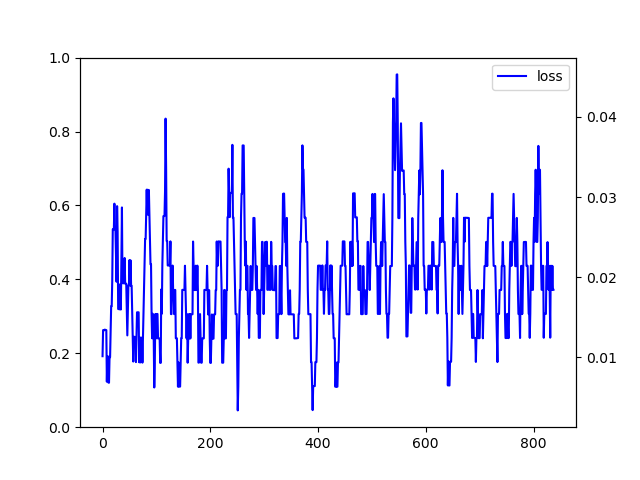
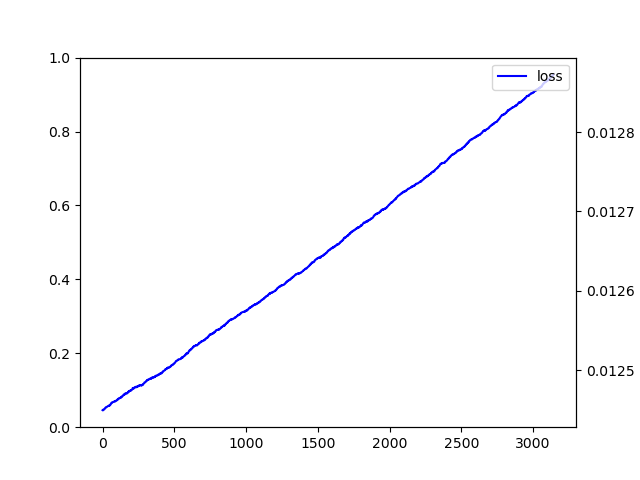
400+,

diff --git a/deeprl_hw2/dqn.py b/deeprl_hw2/dqn.py
@@ -120,11 +120,15 @@ class DQNAgent:
         terminal = torch.from_numpy(np.array([sample[4] for sample in train_samples]).astype(np.int64)).cuda()
         # terminal [batch_size,]
 
-        q_target = torch.where(terminal == 0,
-                               rt + self.gamma * torch.max(q2(s_prime), dim=-1)[0],
-                               rt)  # [batch_size]
-        q_value = torch.gather(input=q1(st), dim=-1, index=at.unsqueeze(-1))
-        loss = torch.mean((q_value - q_target.detach()) ** 2)
+        # q_target = torch.where(terminal == 0,
+        #                        rt + self.gamma * torch.max(q2(s_prime), dim=-1)[0],
+        #                        rt)  # [batch_size]
+
+        q_target = self.gamma * torch.max(q2(s_prime), dim=-1)[0] * (1. - terminal) + rt  # [batch_size]
+        q_value = torch.gather(input=q1(st), dim=-1, index=at.unsqueeze(-1))  # [batch_size, 1]
+        loss = torch.nn.SmoothL1Loss()(q_value.float(), q_target.detach().float().unsqueeze(1))
+
+        # torch.mean((q_value - q_target.detach()) ** 2)
 
         optimizer.zero_grad()
         loss.backward()
@@ -145,7 +149,7 @@ class DQNAgent:
     def evaluate(self, env, q1, num_episodes):
         """Test your agent with a provided environment.
         """
-        env = wrap_deepmind(env, frame_stack=True, episode_life=True, clip_rewards=False, scale=False)
+        env = wrap_deepmind(env, frame_stack=True, episode_life=False, clip_rewards=False, scale=False)
         state = env.reset()
 
         rewards = np.zeros((num_episodes,))
@@ -156,6 +160,7 @@ class DQNAgent:
             new_state, reward, done, info = env.step(action)
             state = new_state
             rewards[n_episode] += reward
+            # env.render()
 
             if done:
                 state = env.reset()

diff --git a/deeprl_hw2/memory.py b/deeprl_hw2/memory.py
@@ -99,7 +99,7 @@ class ReplayMemory:
         samples = []
         while len(samples) < batch_size:
             index = random.randint(0, max_index)
-            if len(self.memory[index]) == 3:
+            if (len(self.memory[index]) == 3) and ((index + 1) % self.max_size != self.next_index):
                 terminal = len(self.memory[(index + 1) % self.max_size]) == 2
                 samples.append(self.memory[index] + [self.memory[(index + 1) % self.max_size][0], terminal])
                 # [st, at, rt] + [st+1, terminal])

diff --git a/dqn_atari.py b/dqn_atari.py
@@ -47,5 +47,5 @@ def main():  # noqa: D103
 
 
 if __name__ == '__main__':
-    os.environ['CUDA_VISIBLE_DEVICES'] = '1'
+    os.environ['CUDA_VISIBLE_DEVICES'] = '0'
     main()
